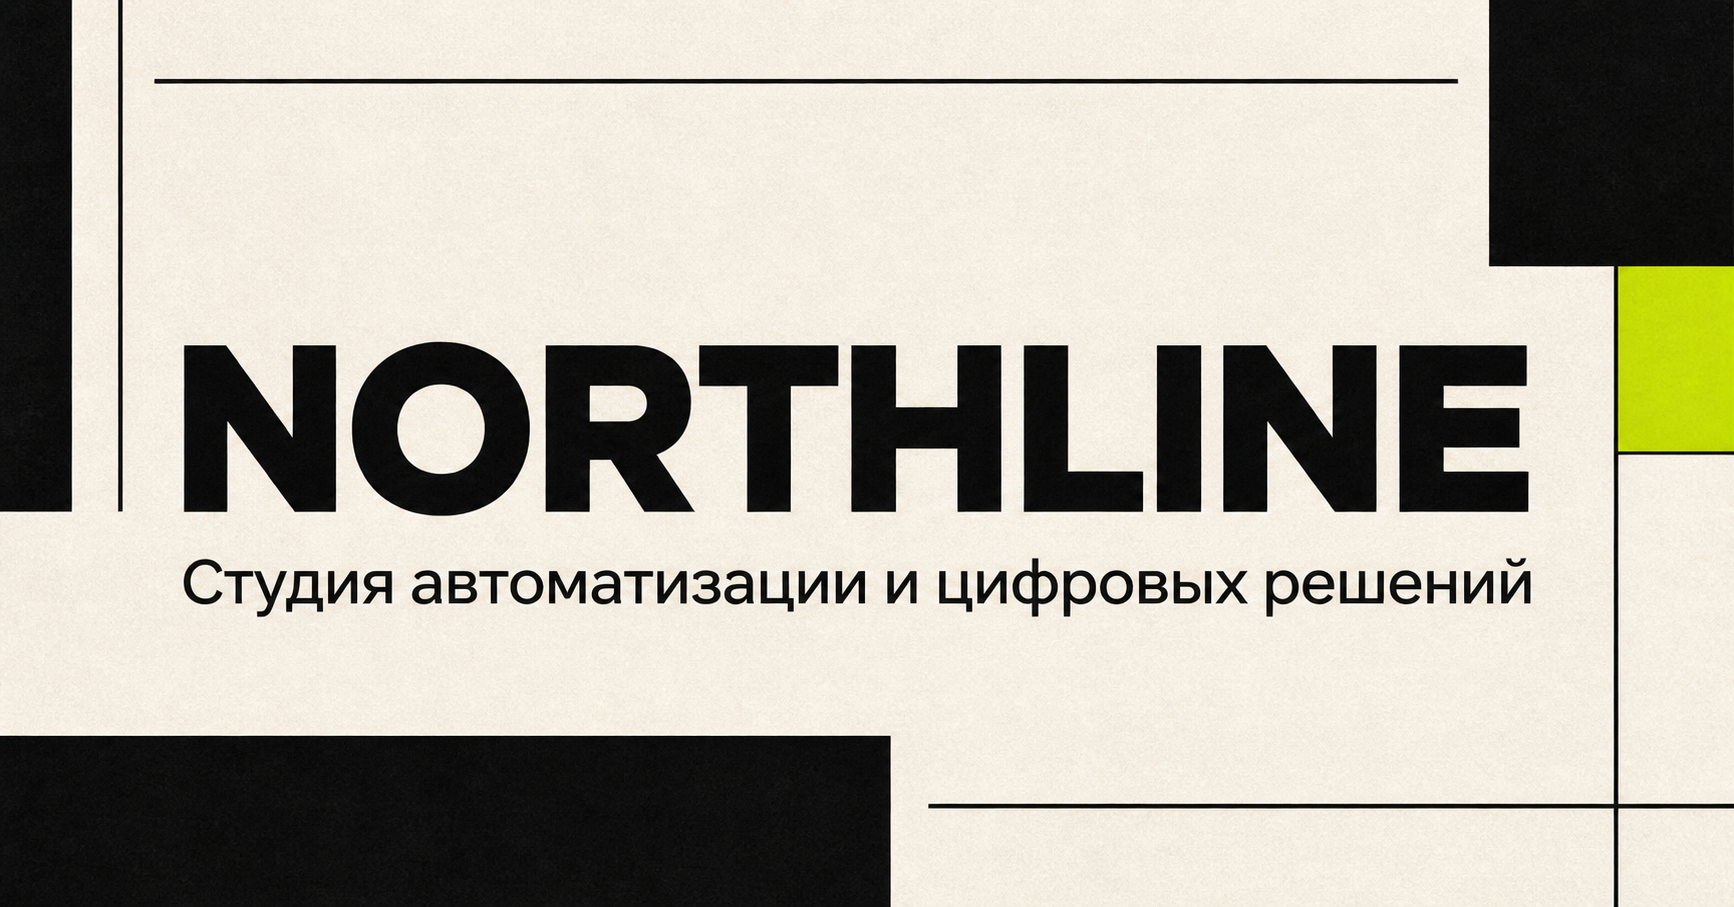
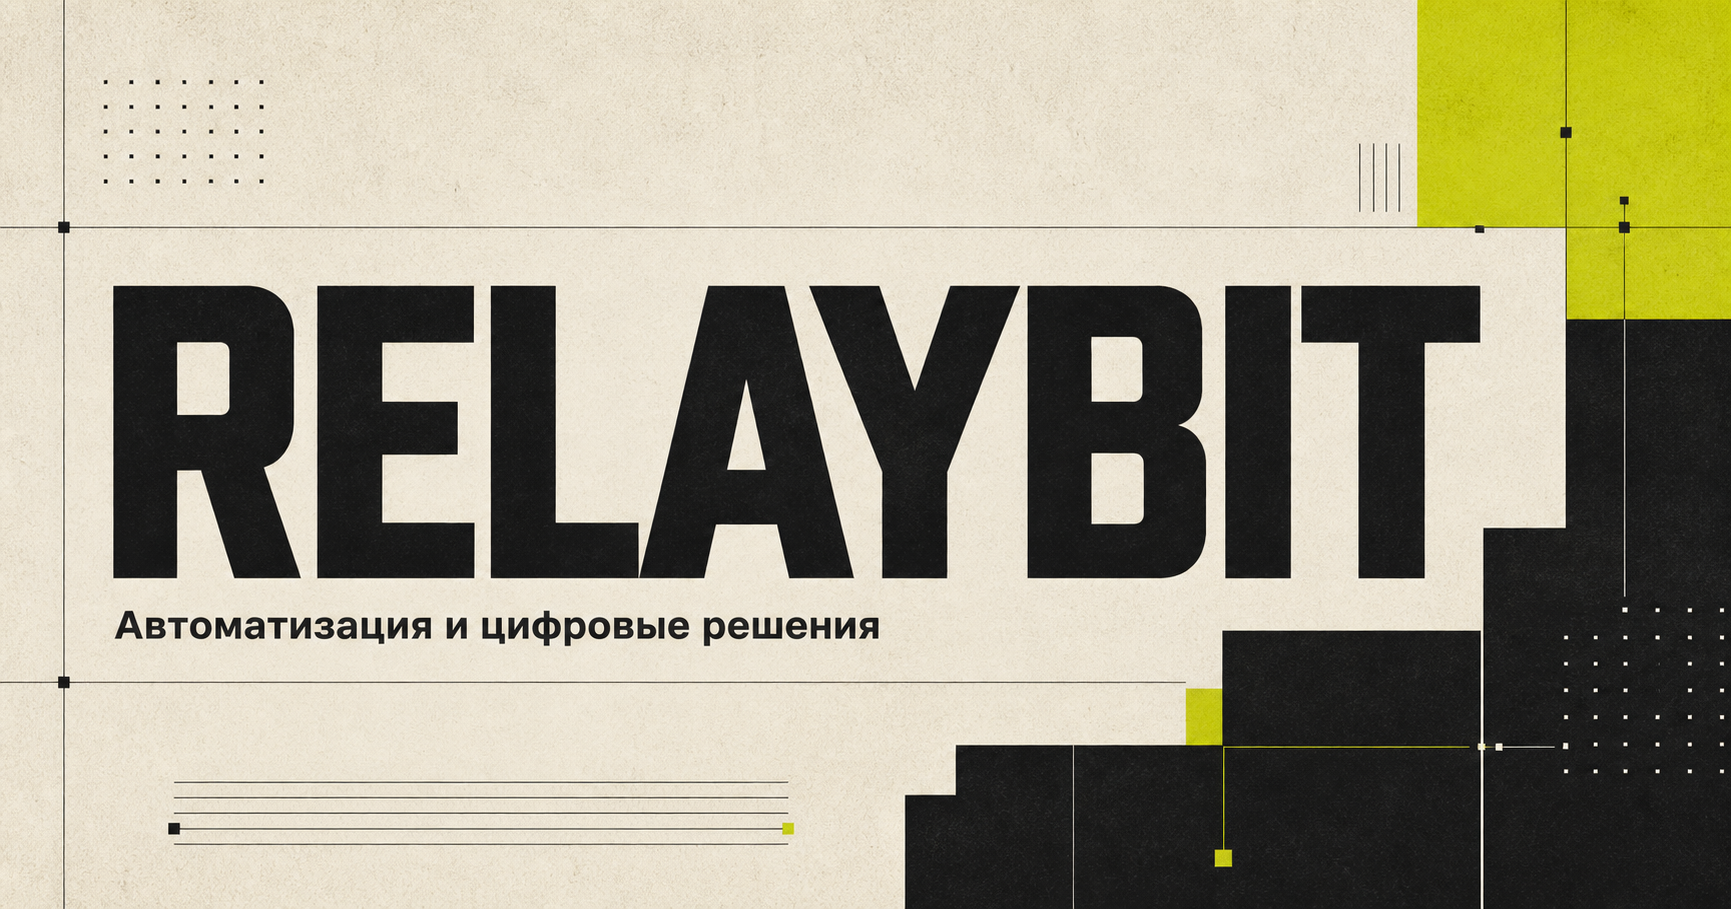
Rebrand studio as RELAYBIT

diff --git a/app/globals.css b/app/globals.css
@@ -13,3 +13,4 @@
 html[data-theme="dark"]{--ink:#f2f0e7;--paper:#11120f;--line:rgba(242,240,231,.17)}body{transition:background .3s,color .3s}.theme-toggle{display:flex;align-items:center;gap:7px;padding:9px 11px;border:1px solid var(--line);border-radius:999px;background:transparent;color:var(--ink);cursor:pointer}.theme-toggle b{font-size:10px;text-transform:uppercase;letter-spacing:.06em}.nav-links{gap:24px}.sweep{width:310px;height:310px;border-radius:50%;transform-origin:center;background:conic-gradient(from 0deg,transparent 0 82%,rgba(202,255,69,.04) 86%,rgba(202,255,69,.3) 100%)}html[data-theme="dark"] .hero-console{box-shadow:20px 25px 0 #292a25}html[data-theme="dark"] .lead,html[data-theme="dark"] .section-head>p,html[data-theme="dark"] .process li p,html[data-theme="dark"] .footer p{color:#aaa99f}html[data-theme="dark"] .project-tabs button.active{background:rgba(255,255,255,.06)}html[data-theme="dark"] .project-stage.acid,html[data-theme="dark"] .contact{color:#11120f}html[data-theme="dark"] .project-stage.paper{background:#20211d}html[data-theme="dark"] .services{background:#050604}html[data-theme="dark"] .brand-mark{background:var(--lime);color:#11120f}
 .page-hero{padding:110px 0 85px;border-bottom:1px solid var(--line)}.page-hero>span,.coming>span,.manifesto span{font:11px monospace;color:#74766e;letter-spacing:.12em;text-transform:uppercase}.page-hero h1{margin-top:24px}.page-hero h1 em{font-family:Georgia,serif;font-weight:400}.page-hero>p{max-width:650px;margin:35px 0 0;font-size:20px;line-height:1.55;color:#777970}.case-list{padding:35px 0 120px}.case-list article{display:grid;grid-template-columns:70px 1fr auto;gap:35px;align-items:center;padding:48px 0;border-bottom:1px solid var(--line)}.case-no{font:11px monospace;color:#777970}.case-list span{font:10px monospace;color:#777970;text-transform:uppercase;letter-spacing:.1em}.case-list h2{margin:10px 0;font-size:42px;letter-spacing:-.045em}.case-list p{margin:0;max-width:600px;color:#777970;line-height:1.5}.case-status{display:flex;align-items:center;gap:10px;font:10px monospace;text-transform:uppercase}.case-status i{width:8px;height:8px;border-radius:50%;background:var(--lime);box-shadow:0 0 0 5px rgba(202,255,69,.18)}.coming{margin-bottom:90px;padding:70px;background:var(--lime);color:#11120f;border:1px solid #11120f;border-radius:8px}.coming h2{font-size:clamp(40px,6vw,70px);line-height:.95;letter-spacing:-.055em;margin:22px 0}.coming p{max-width:650px;font-size:17px;line-height:1.55}.service-page{display:grid;grid-template-columns:repeat(3,1fr);padding:90px 0 130px}.service-page article{padding:15px 38px 40px 0;border-right:1px solid var(--line)}.service-page article+article{padding-left:38px}.service-page article:last-child{border-right:0}.service-page b{font:11px monospace;color:#777970}.service-page h2{font-size:34px;letter-spacing:-.04em;margin:42px 0 18px}.service-page p,.service-page li{color:#777970;line-height:1.55}.service-page ul{padding-left:18px;margin-top:30px}.manifesto{display:grid;grid-template-columns:1fr 1fr;gap:90px;padding:100px 0}.manifesto h2{font-size:clamp(45px,6vw,76px);line-height:.95;letter-spacing:-.06em;margin:25px 0}.manifesto-copy{font-size:20px;line-height:1.6;color:#777970}.values{display:grid;grid-template-columns:repeat(3,1fr);padding-bottom:120px}.values article{padding:38px;border:1px solid var(--line);margin-left:-1px}.values b{font:11px monospace;color:#777970}.values h3{font-size:32px;margin:55px 0 15px}.values p{color:#777970;line-height:1.55}
 @media(max-width:900px){.manifesto{grid-template-columns:1fr;gap:45px}.service-page,.values{grid-template-columns:1fr}.service-page article,.service-page article+article{padding:35px 0;border-right:0;border-bottom:1px solid var(--line)}.values article{margin:-1px 0 0}.case-list article{grid-template-columns:45px 1fr}.case-status{grid-column:2}.nav-links{gap:10px}.theme-toggle b{display:none}}@media(max-width:540px){.page-hero{padding:75px 0 60px}.coming{padding:40px 25px}.case-list h2{font-size:31px}.case-list article{gap:12px}.nav-links .theme-toggle{display:flex}}
+.ticker,.project-stage.acid,.contact,.coming{color:#11120f}.project-stage.acid .project-info,.project-stage.acid .project-info>span,.project-stage.acid .project-info p{color:#11120f}html[data-theme="dark"] .contact button{background:#11120f;color:#fff}html[data-theme="dark"] .contact-orb{border-color:#11120f}html[data-theme="dark"] .ticker{border-color:#11120f}

diff --git a/app/about/page.tsx b/app/about/page.tsx
@@ -1,3 +1,3 @@
 import type { Metadata } from 'next';import SiteHeader from '../components/SiteHeader';import SiteFooter from '../components/SiteFooter';
-export const metadata:Metadata={title:'О студии — NORTHLINE',description:'Принципы работы студии автоматизации NORTHLINE.',openGraph:{images:[]},twitter:{images:[]}};
-export default function AboutPage(){return <main><SiteHeader/><section className="page-hero shell"><span>03 / О студии</span><h1>Технологии без<br/><em>технического тумана.</em></h1><p>NORTHLINE — небольшая независимая студия. Мы создаём понятные цифровые инструменты для конкретных задач.</p></section><section className="manifesto shell"><div><span>Подход</span><h2>Сначала польза.<br/>Потом код.</h2></div><div className="manifesto-copy"><p>Хорошая автоматизация не требует долгого обучения и не добавляет новую рутину. Она незаметно делает работу быстрее и надёжнее.</p><p>Поэтому каждый проект начинается с простого вопроса: какой повторяющийся процесс можно убрать уже сейчас?</p></div></section><section className="values shell"><article><b>01</b><h3>Понятно</h3><p>Объясняем решения обычными словами и показываем результат на рабочем прототипе.</p></article><article><b>02</b><h3>Быстро</h3><p>Первая проверяемая версия появляется через несколько дней.</p></article><article><b>03</b><h3>По делу</h3><p>Не добавляем функции, которые не помогают задаче и усложняют использование.</p></article></section><SiteFooter/></main>}
+export const metadata:Metadata={title:'О студии — RELAYBIT',description:'Принципы работы студии автоматизации RELAYBIT.',openGraph:{images:[]},twitter:{images:[]}};
+export default function AboutPage(){return <main><SiteHeader/><section className="page-hero shell"><span>03 / О студии</span><h1>Технологии без<br/><em>технического тумана.</em></h1><p>RELAYBIT — небольшая независимая студия. Мы создаём понятные цифровые инструменты для конкретных задач.</p></section><section className="manifesto shell"><div><span>Подход</span><h2>Сначала польза.<br/>Потом код.</h2></div><div className="manifesto-copy"><p>Хорошая автоматизация не требует долгого обучения и не добавляет новую рутину. Она незаметно делает работу быстрее и надёжнее.</p><p>Поэтому каждый проект начинается с простого вопроса: какой повторяющийся процесс можно убрать уже сейчас?</p></div></section><section className="values shell"><article><b>01</b><h3>Понятно</h3><p>Объясняем решения обычными словами и показываем результат на рабочем прототипе.</p></article><article><b>02</b><h3>Быстро</h3><p>Первая проверяемая версия появляется через несколько дней.</p></article><article><b>03</b><h3>По делу</h3><p>Не добавляем функции, которые не помогают задаче и усложняют использование.</p></article></section><SiteFooter/></main>}

diff --git a/app/projects/page.tsx b/app/projects/page.tsx
@@ -1,4 +1,4 @@
 import type { Metadata } from 'next';import SiteHeader from '../components/SiteHeader';import SiteFooter from '../components/SiteFooter';
-export const metadata:Metadata={title:'Проекты — NORTHLINE',description:'Проекты и экспериментальные продукты студии NORTHLINE.',openGraph:{images:[]},twitter:{images:[]}};
+export const metadata:Metadata={title:'Проекты — RELAYBIT',description:'Проекты и экспериментальные продукты студии RELAYBIT.',openGraph:{images:[]},twitter:{images:[]}};
 const cases=[['01','Local Leads Scout','Telegram / Python','Поиск тематических сообществ, фильтрация и удобная выдача результатов.','В разработке'],['02','Price Pulse','Data / Automation','Сбор цен, история изменений и уведомления о важных событиях.','Концепт'],['03','Booking Flow','Telegram / UX','Запись клиентов, свободные слоты, подтверждения и напоминания.','Прототип']];
 export default function ProjectsPage(){return <main><SiteHeader/><section className="page-hero shell"><span>01 / Портфолио</span><h1>Системы,<br/><em>которые работают.</em></h1><p>Здесь будут реальные кейсы с задачей, процессом, результатом и демонстрацией. Пока показываем три направления разработки.</p></section><section className="case-list shell">{cases.map(([no,title,type,text,status])=><article key={no}><div className="case-no">{no}</div><div><span>{type}</span><h2>{title}</h2><p>{text}</p></div><div className="case-status">{status}<i/></div></article>)}</section><section className="coming shell"><span>Следующий релиз</span><h2>Добавим реальные работы<br/>и измеримые результаты.</h2><p>Структура уже готова: для каждого проекта появится отдельная страница с подробностями, скриншотами и технологиями.</p></section><SiteFooter/></main>}

diff --git a/app/services/page.tsx b/app/services/page.tsx
@@ -1,3 +1,3 @@
 import type { Metadata } from 'next';import SiteHeader from '../components/SiteHeader';import SiteFooter from '../components/SiteFooter';
-export const metadata:Metadata={title:'Услуги — NORTHLINE',description:'Автоматизация, Telegram-боты и сбор данных для малого бизнеса.',openGraph:{images:[]},twitter:{images:[]}};
+export const metadata:Metadata={title:'Услуги — RELAYBIT',description:'Автоматизация, Telegram-боты и сбор данных для малого бизнеса.',openGraph:{images:[]},twitter:{images:[]}};
 export default function ServicesPage(){return <main><SiteHeader/><section className="page-hero shell"><span>02 / Услуги</span><h1>Меньше действий.<br/><em>Больше результата.</em></h1><p>Начинаем с понятной бизнес-задачи и собираем ровно тот инструмент, который нужен для её решения.</p></section><section className="service-page shell"><article><b>01</b><h2>Telegram-боты</h2><p>Приём заявок, запись клиентов, уведомления, каталоги и внутренние инструменты для команды.</p><ul><li>Сценарий и интерфейс</li><li>Интеграции с API</li><li>Развёртывание и поддержка</li></ul></article><article><b>02</b><h2>Сбор данных</h2><p>Цены, товары, объявления и открытые источники превращаются в структурированные данные.</p><ul><li>Парсеры и мониторинг</li><li>Очистка и фильтрация</li><li>Таблицы и уведомления</li></ul></article><article><b>03</b><h2>Автоматизация</h2><p>Связываем сервисы и убираем повторяющиеся ручные операции из ежедневной работы.</p><ul><li>Аудит процесса</li><li>Рабочий прототип</li><li>Документация</li></ul></article></section><SiteFooter/></main>}

diff --git a/app/components/ThemeToggle.tsx b/app/components/ThemeToggle.tsx
@@ -1,3 +1,3 @@
 'use client';
 import { useEffect, useState } from 'react';
-export default function ThemeToggle(){const[dark,setDark]=useState(false);useEffect(()=>{const saved=localStorage.getItem('northline-theme');const next=saved?saved==='dark':matchMedia('(prefers-color-scheme: dark)').matches;setDark(next);document.documentElement.dataset.theme=next?'dark':'light'},[]);function toggle(){const next=!dark;setDark(next);document.documentElement.dataset.theme=next?'dark':'light';localStorage.setItem('northline-theme',next?'dark':'light')}return <button className="theme-toggle" onClick={toggle} aria-label={dark?'Включить светлую тему':'Включить тёмную тему'}><span>{dark?'☀':'◐'}</span><b>{dark?'Светлая':'Тёмная'}</b></button>}
+export default function ThemeToggle(){const[dark,setDark]=useState(false);useEffect(()=>{const saved=localStorage.getItem('relaybit-theme');const next=saved?saved==='dark':matchMedia('(prefers-color-scheme: dark)').matches;setDark(next);document.documentElement.dataset.theme=next?'dark':'light'},[]);function toggle(){const next=!dark;setDark(next);document.documentElement.dataset.theme=next?'dark':'light';localStorage.setItem('relaybit-theme',next?'dark':'light')}return <button className="theme-toggle" onClick={toggle} aria-label={dark?'Включить светлую тему':'Включить тёмную тему'}><span>{dark?'☀':'◐'}</span><b>{dark?'Светлая':'Тёмная'}</b></button>}

diff --git a/app/layout.tsx b/app/layout.tsx
@@ -14,16 +14,16 @@ const geistMono = Geist_Mono({
 
 export const metadata: Metadata = {
   metadataBase: new URL(process.env.SITE_URL || 'https://leonid-automation-portfolio.gsvlona.chatgpt.site'),
-  title: 'NORTHLINE — студия автоматизации',
+  title: 'RELAYBIT — автоматизация и цифровые решения',
   description: 'Telegram-боты, парсеры и цифровые системы, которые освобождают бизнес от ручной работы.',
   openGraph: {
-    title: 'NORTHLINE — автоматизация без рутины',
+    title: 'RELAYBIT — автоматизация без рутины',
     description: 'Telegram-боты · Парсеры · Интеграции',
     images: ['/og.png'],
   },
   twitter: {
     card: 'summary_large_image',
-    title: 'NORTHLINE — автоматизация без рутины',
+    title: 'RELAYBIT — автоматизация без рутины',
     description: 'Telegram-боты · Парсеры · Интеграции',
     images: ['/og.png'],
   },

diff --git a/app/components/SiteHeader.tsx b/app/components/SiteHeader.tsx
@@ -1,2 +1,2 @@
 import ThemeToggle from './ThemeToggle';
-export default function SiteHeader(){return <nav className="nav shell"><a className="brand" href="/"><span className="brand-mark">N</span><span>NORTHLINE</span></a><div className="nav-links"><a href="/projects">Проекты</a><a href="/services">Услуги</a><a href="/about">О студии</a><ThemeToggle/><a className="nav-cta" href="/#contact">Обсудить задачу</a></div></nav>}
+export default function SiteHeader(){return <nav className="nav shell"><a className="brand" href="/"><span className="brand-mark">R</span><span>RELAYBIT</span></a><div className="nav-links"><a href="/projects">Проекты</a><a href="/services">Услуги</a><a href="/about">О студии</a><ThemeToggle/><a className="nav-cta" href="/#contact">Обсудить задачу</a></div></nav>}

diff --git a/app/components/SiteFooter.tsx b/app/components/SiteFooter.tsx
@@ -1,1 +1,1 @@
-export default function SiteFooter(){return <footer className="footer shell"><a className="brand" href="/"><span className="brand-mark">N</span><span>NORTHLINE</span></a><p>Студия автоматизации и цифровых решений.</p><a href="/">На главную ↑</a></footer>}
+export default function SiteFooter(){return <footer className="footer shell"><a className="brand" href="/"><span className="brand-mark">R</span><span>RELAYBIT</span></a><p>Автоматизация и цифровые решения.</p><a href="/">На главную ↑</a></footer>}
